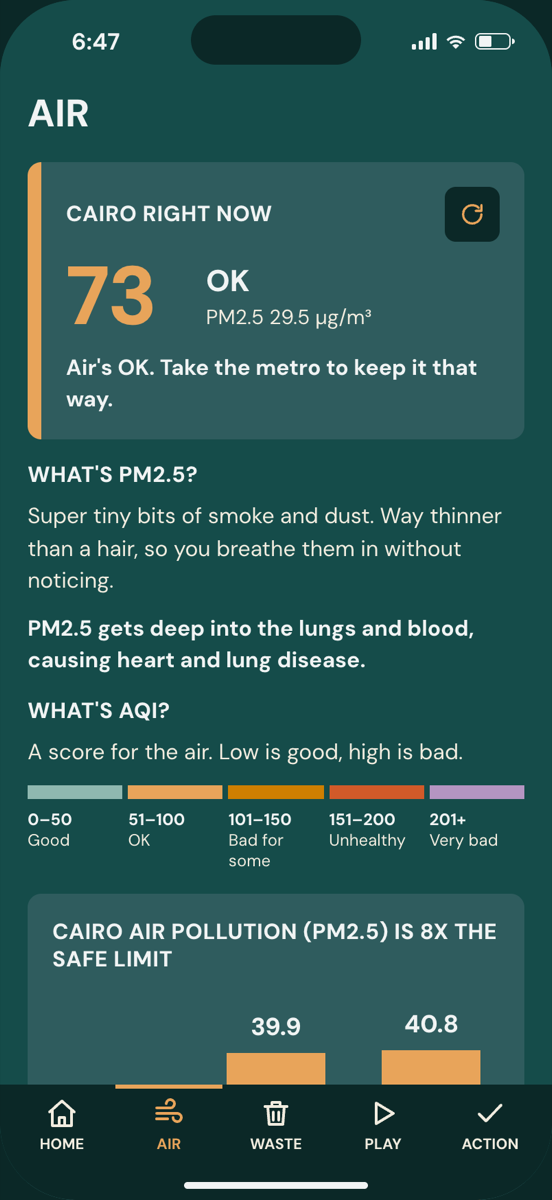
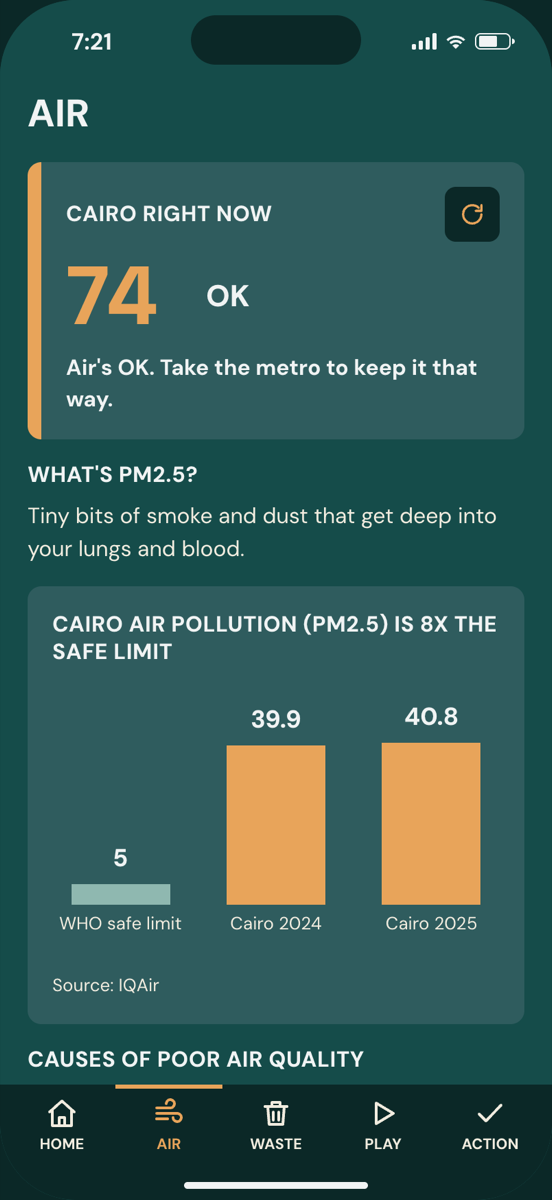
Simpler Air and Waste screens
Each idea is now one short line or one simple chart, not both:
- Air: live AQI (number, rating, tip), what PM2.5 is in one line, the
  PM2.5 chart from my slide, and the causes. Removed the AQI colour
  scale, the PM2.5 reading and the sentence repeating the chart.
- Waste: 28M with one short line, then "Where it goes", "Recycling" and
  "How Cairo can fix it" as charts and icons without the long sentences.
The full facts are still in the quiz feedback.

diff --git a/public/index.html b/public/index.html
@@ -214,7 +214,7 @@
     </section>
 
     <!-- ================================================================
-         SCREEN: AIR — live AQI, PM2.5, AQI scale, chart, causes (tab)
+         SCREEN: AIR — live AQI, what PM2.5 is, chart, causes (tab)
          ================================================================ -->
     <section class="screen" id="screen-air" data-title="Air" data-tab="air" aria-labelledby="title-air" hidden>
       <header class="screen-header">
@@ -230,32 +230,15 @@
           </div>
           <div class="aqi-main">
             <span class="aqi-num" id="aqiNum">--</span>
-            <div>
-              <p class="aqi-level" id="aqiLevel">Loading…</p>
-              <p class="aqi-pm" id="aqiPm">PM2.5 -- µg/m³</p>
-            </div>
+            <p class="aqi-level" id="aqiLevel">Loading…</p>
           </div>
           <p class="aqi-tip" id="aqiTip">Getting today's tip…</p>
         </article>
 
-        <!-- SECTION: What is PM2.5? -->
+        <!-- SECTION: What is PM2.5? (one short line) -->
         <section class="plain">
           <h2 class="section-title">What's PM2.5?</h2>
-          <p>Super tiny bits of smoke and dust. Way thinner than a hair, so you breathe them in without noticing.</p>
-          <p class="fact">PM2.5 gets deep into the lungs and blood, causing heart and lung disease.</p>
-        </section>
-
-        <!-- SECTION: What is AQI? with the colour strip -->
-        <section class="plain">
-          <h2 class="section-title">What's AQI?</h2>
-          <p>A score for the air. Low is good, high is bad.</p>
-          <ol class="aqi-strip" aria-label="AQI colours: 0 to 50 good, 51 to 100 OK, 101 to 150 bad for some, 151 to 200 unhealthy, 201 and up very unhealthy">
-            <li style="--c:var(--teal-light)"><b>0–50</b>Good</li>
-            <li style="--c:var(--accent)"><b>51–100</b>OK</li>
-            <li style="--c:var(--orange-dark)"><b>101–150</b>Bad for some</li>
-            <li style="--c:var(--red)"><b>151–200</b>Unhealthy</li>
-            <li style="--c:var(--purple)"><b>201+</b>Very bad</li>
-          </ol>
+          <p>Tiny bits of smoke and dust that get deep into your lungs and blood.</p>
         </section>
 
         <!-- CHART: PM2.5 bar chart like my slide (WHO limit vs Cairo 2024 and 2025) -->
@@ -266,8 +249,7 @@
             <div class="bar-col"><span class="bar-val">39.9</span><span class="bar" style="--h:39.9;--c:var(--accent)"></span><span class="bar-label">Cairo 2024</span></div>
             <div class="bar-col"><span class="bar-val">40.8</span><span class="bar" style="--h:40.8;--c:var(--accent)"></span><span class="bar-label">Cairo 2025</span></div>
           </div>
-          <p class="chart-source">Source: IQAir. Yearly average, µg/m³.</p>
-          <p class="fact">Cairo's 2025 average PM2.5 was about 40.8 µg/m³, around 8x the WHO limit of 5.</p>
+          <p class="chart-source">Source: IQAir</p>
         </article>
 
         <!-- SECTION: Causes, an icon with a label for each (like my Causes slide) -->
@@ -295,19 +277,15 @@
         <h1 class="screen-title" id="title-waste" tabindex="-1">Waste</h1>
       </header>
       <div class="screen-body">
-        <!-- STAT: How much waste (big number next to the fact) -->
+        <!-- STAT: How much waste (big number + one short line) -->
         <div class="stat-row">
           <p class="big-stat">28M<small>tonnes a year</small></p>
-          <p class="stat-text">Egypt makes about 28 million tonnes of city waste a year, around 40% from Cairo.</p>
-        </div>
-        <div class="split-bar" role="img" aria-label="About 40 percent of Egypt's city waste comes from Cairo">
-          <span class="split-a" style="--w:40%">Cairo 40%</span><span class="split-b">rest of Egypt</span>
+          <p class="stat-text">of city waste in Egypt. About 40% comes from Cairo.</p>
         </div>
 
         <!-- BAND: Where the waste goes -->
         <div class="band">
-          <h2 class="section-title">Where does it go?</h2>
-          <p class="fact strong">Around 88% goes to open dumps and only about 7% reaches proper landfills.</p>
+          <h2 class="section-title">Where it goes</h2>
           <div class="hbars" role="img" aria-label="88 percent open dumps, 7 percent proper landfills">
             <div class="hbar"><span class="hbar-label">Open dumps</span><span class="hbar-track"><span class="hbar-fill" style="--w:88%;--c:var(--red)"></span></span><b>88%</b></div>
             <div class="hbar"><span class="hbar-label">Landfills</span><span class="hbar-track"><span class="hbar-fill" style="--w:7%;--c:var(--teal-light)"></span></span><b>7%</b></div>
@@ -316,8 +294,7 @@
 
         <!-- CARD: Recycling progress -->
         <article class="card">
-          <h2 class="section-title">Recycling is going up</h2>
-          <p class="fact strong">Recycling went from 10% in 2018 to 37% in 2024. The goal is to have 60% by 2027.</p>
+          <h2 class="section-title">Recycling</h2>
           <div class="hbars" role="img" aria-label="Recycling rate: 10 percent in 2018, 37 percent in 2024, goal of 60 percent by 2027">
             <div class="hbar"><span class="hbar-label">2018</span><span class="hbar-track"><span class="hbar-fill" style="--w:10%;--c:var(--accent)"></span></span><b>10%</b></div>
             <div class="hbar"><span class="hbar-label">2024</span><span class="hbar-track"><span class="hbar-fill" style="--w:37%;--c:var(--accent)"></span></span><b>37%</b></div>
@@ -328,7 +305,6 @@
         <!-- SECTION: Solutions, an icon with a label for each -->
         <section class="plain">
           <h2 class="section-title">How Cairo can fix it</h2>
-          <p class="fact">Better garbage truck routes and bringing informal collectors like the Zabbaleen into the system.</p>
           <ul class="icon-list">
             <li><svg class="list-icon" aria-hidden="true"><use href="#i-truck"/></svg>Better garbage truck routes</li>
             <li><svg class="list-icon" aria-hidden="true"><use href="#i-people"/></svg>Bring the Zabbaleen into the system</li>

diff --git a/public/css/styles.css b/public/css/styles.css
@@ -229,13 +229,8 @@ a { color: var(--accent); }
 .aqi-main { display: flex; align-items: center; gap: 16px; }
 .aqi-num { font-size: 60px; font-weight: 800; line-height: 1; min-width: 86px; color: var(--aqi); }
 .aqi-level { font-size: 22px; font-weight: 800; text-transform: uppercase; }
-.aqi-pm { color: var(--cream); font-size: 15px; }
 .aqi-tip { font-weight: 700; }
 
-/* AQI colour strip */
-.aqi-strip { list-style: none; display: grid; grid-template-columns: repeat(5, 1fr); gap: 4px; }
-.aqi-strip li { font-size: 12px; line-height: 1.25; color: var(--cream); padding-top: 8px; border-top: 10px solid var(--c); }
-.aqi-strip b { display: block; color: var(--text); }
 
 /* PM2.5 bar chart (like my slide) */
 .bar-chart { display: grid; grid-template-columns: repeat(3, 1fr); gap: 14px; align-items: end; height: 200px; padding-top: 8px; }
@@ -256,9 +251,6 @@ a { color: var(--accent); }
 .big-stat { font-size: 60px; font-weight: 800; line-height: .9; color: var(--accent); }
 .big-stat small { display: block; font-size: 13px; color: var(--cream); font-weight: 700; margin-top: 6px; text-transform: uppercase; }
 .stat-text { font-weight: 700; font-size: 16px; }
-.split-bar { display: flex; height: 32px; font-size: 13px; font-weight: 800; border-radius: 6px; overflow: hidden; }
-.split-a { width: var(--w); background: var(--accent); color: var(--dark); display: grid; place-items: center; }
-.split-b { flex: 1; background: var(--dark); display: grid; place-items: center; color: var(--cream); }
 .hbars { display: flex; flex-direction: column; gap: 10px; }
 .hbar { display: grid; grid-template-columns: 90px 1fr 44px; align-items: center; gap: 10px; font-size: 14px; }
 .hbar b { text-align: right; }

diff --git a/public/js/air.js b/public/js/air.js
@@ -34,7 +34,6 @@ var Air = (function () {
     $('aqiNum').textContent = aqi;
     $('aqiNum').setAttribute('aria-label', 'AQI ' + aqi);
     $('aqiLevel').textContent = level.name;
-    $('aqiPm').textContent = 'PM2.5 ' + result.pm25.toFixed(1) + ' µg/m³';
     $('aqiTip').textContent = level.tip;
     $('homeAqi').textContent = 'AQI ' + aqi;
     $('homeAqi').style.background = level.color;
@@ -42,8 +41,7 @@ var Air = (function () {
 
   function renderError() {
     $('aqiNum').textContent = '--';
-    $('aqiLevel').textContent = 'No data';
-    $('aqiPm').textContent = 'Check your internet';
+    $('aqiLevel').textContent = 'No data. Check your internet.';
     $('aqiTip').textContent = "Take the metro and don't burn trash.";
     $('homeAqi').textContent = 'AQI --';
   }

diff --git a/public/sw.js b/public/sw.js
@@ -6,7 +6,7 @@
    - /api and Open-Meteo: never cached here (the app handles offline itself).
    Change VERSION when you change the app so old caches are deleted.
    ========================================================================== */
-const VERSION = 'mcca-v12';
+const VERSION = 'mcca-v13';
 const SHELL = [
   './',
   'index.html',

diff --git a/README.md b/README.md
@@ -32,8 +32,8 @@ Evidence for my teacher (every extra skill, what I researched, and where it is i
 | Splash | App name, logo, Start button |
 | Name | First time only: first name (A–Z, max 15) + last name initial (1 letter), shown as "Mahmoud E." Bad words blocked. |
 | Home | Hey + my name, "everyone together" totals from the sheet, buttons |
-| Air | PM2.5 and AQI explained, live Cairo AQI with a tip, bar chart, causes |
-| Waste | Fact cards: how much waste, where it goes, recycling, solutions |
+| Air | Live Cairo AQI with a tip, what PM2.5 is in one line, the PM2.5 chart, causes |
+| Waste | How much waste, where it goes, recycling and how to fix it, as short charts and lists |
 | Play | Choose Quiz or Game |
 | Quiz | 10 random questions, shuffled answers, right/wrong with the fact, best score |
 | Game | Sort falling trash into 4 bins in 60 seconds, drag or tap |
